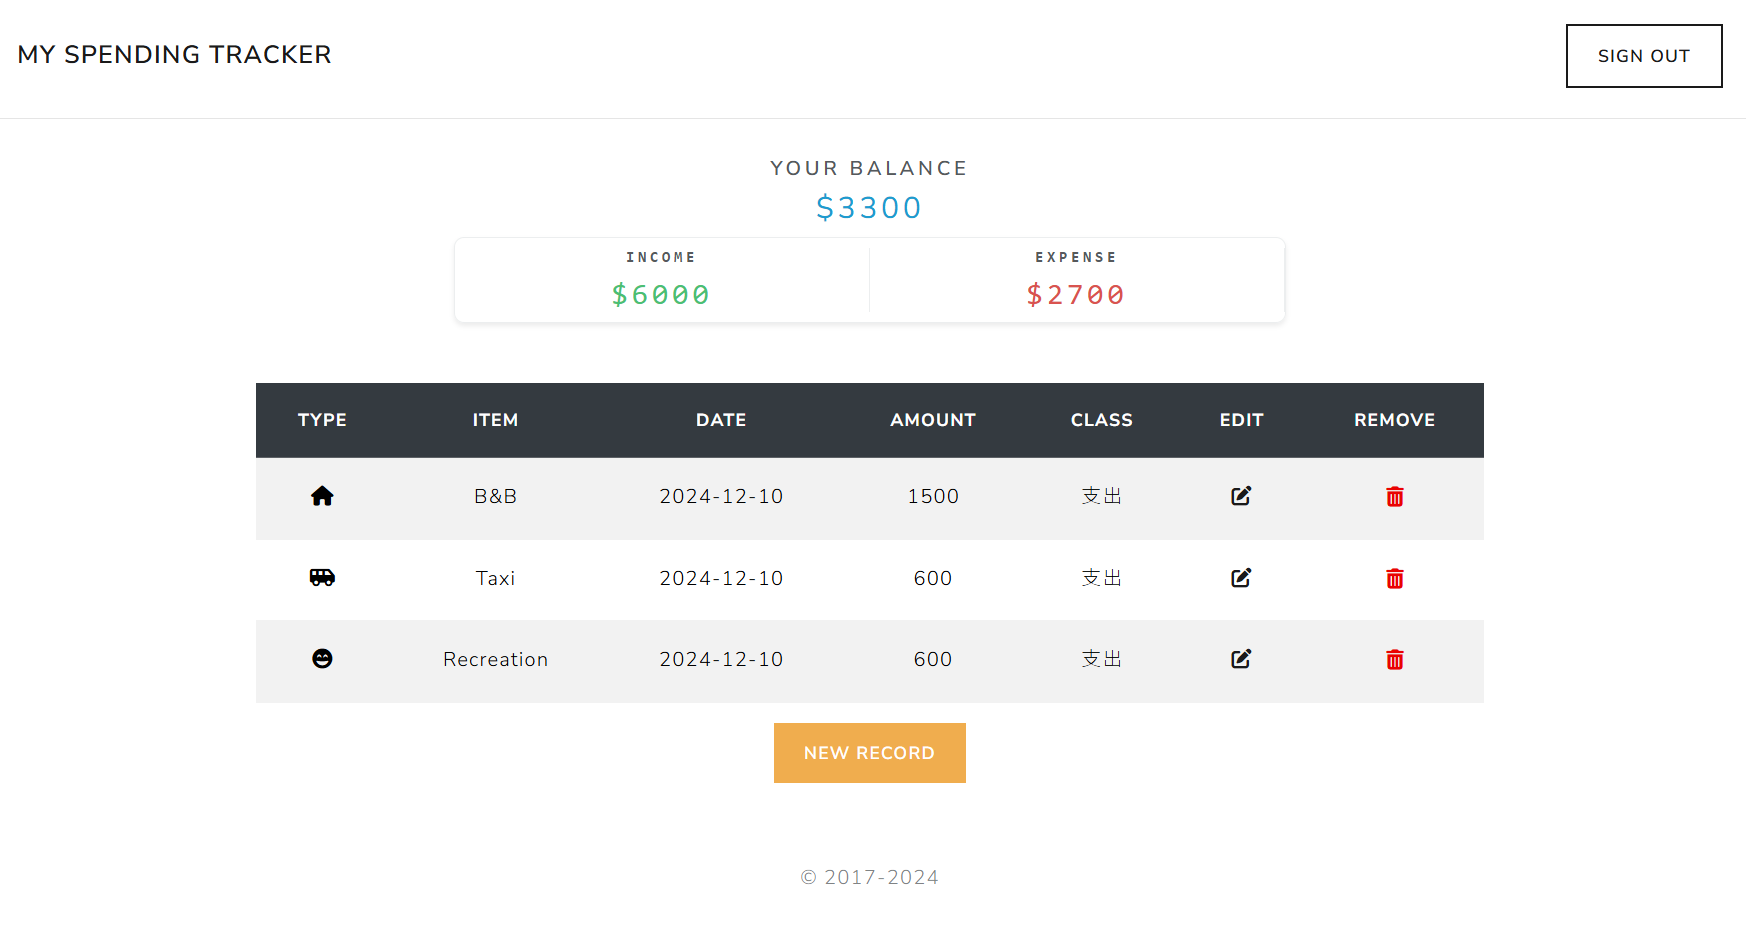
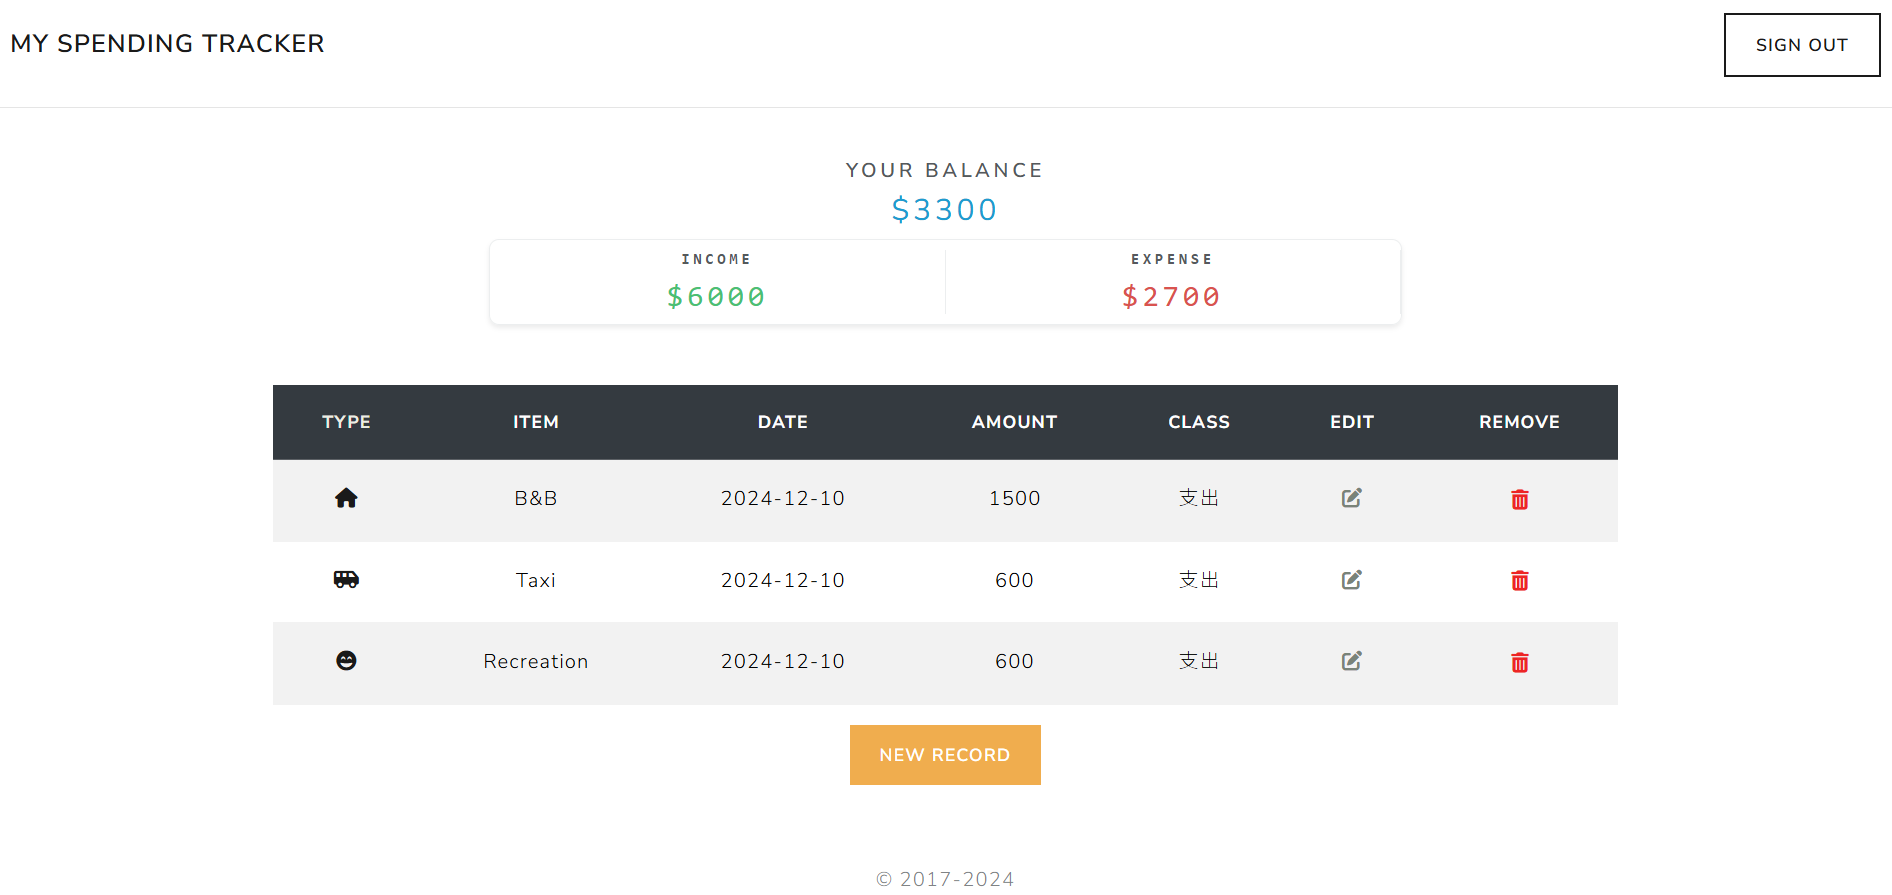
feat: add category feature for income and expenses

diff --git a/src/controllers/record-controller.ts b/src/controllers/record-controller.ts
@@ -31,17 +31,17 @@ class RecordController {
   private readonly categoryService = new CategoryService()
 
   getRecords (req: Request, res: Response, next: NextFunction): void {
-    const { _id: userId } = (req as AuthenticatedRequest).user
+    const { user: { _id: userId }, query: { type } } = req as AuthenticatedRequest & { query: { type?: string } }
 
     void (async () => {
       try {
-        const records = await this.recordService.findRecords(userId)
+        const records = await this.recordService.findRecords(userId, type)
 
         const initialIncome = (req.user as { earning?: number }).earning ?? DEFAULT_INCOME
 
         const income = records.reduce((subtotal, record) => {
           return record.class === '收入' ? subtotal + record.amount : subtotal
-        }, initialIncome)
+        }, type != null ? 0 : initialIncome)
 
         const totalExpenses = records.reduce((subtotal, record) => {
           return record.class === '支出' ? subtotal + record.amount : subtotal

diff --git a/src/services/record-service.ts b/src/services/record-service.ts
@@ -51,7 +51,7 @@ interface UpdateProperties {
 const DEFAULT_EXPIRATION = 3600
 
 class RecordService {
-  async findRecords (userId: Records['userId']): Promise<Records[]> {
+  async findRecords (userId: Records['userId'], type?: Records['categoryId']['_id']): Promise<Records[]> {
     const redisData = await redisClient.get(`records:${String(userId)}`)
 
     const records: Records[] = redisData != null
@@ -66,7 +66,7 @@ class RecordService {
         .setEx(`records:${String(userId)}`, DEFAULT_EXPIRATION, JSON.stringify(records))
     }
 
-    return records
+    return type != null ? records.filter(record => record.categoryId._id === type) : records
   }
 
   async findRecordById (recordId: Records['_id']): Promise<RecordDocument | null> {

diff --git a/public/stylesheets/style.css b/public/stylesheets/style.css
@@ -46,13 +46,13 @@ p {
 }
 
 .delete-icon {
-  color: rgb(234, 2, 2);
+  color: rgb(237, 37, 37);
   background: none;
   border: none;
 }
 
 .edit-icon {
-  color: rgb(46, 102, 232);
+  color: rgb(121, 131, 121);
 }
 
 .SSO img {

diff --git a/README.md b/README.md
@@ -27,7 +27,8 @@
 3. Users can add new income or expense entries.
 4. Users can edit existing income or expense entries
 5. Users can delete existing income or expense entries.
-6. Users can opt to have their login credentials remembered for future logins.
+6. Users can filter income and expense categories by clicking the icon of the type item.
+7. Users can opt to have their login credentials remembered for future logins.
 
 </br>
 
